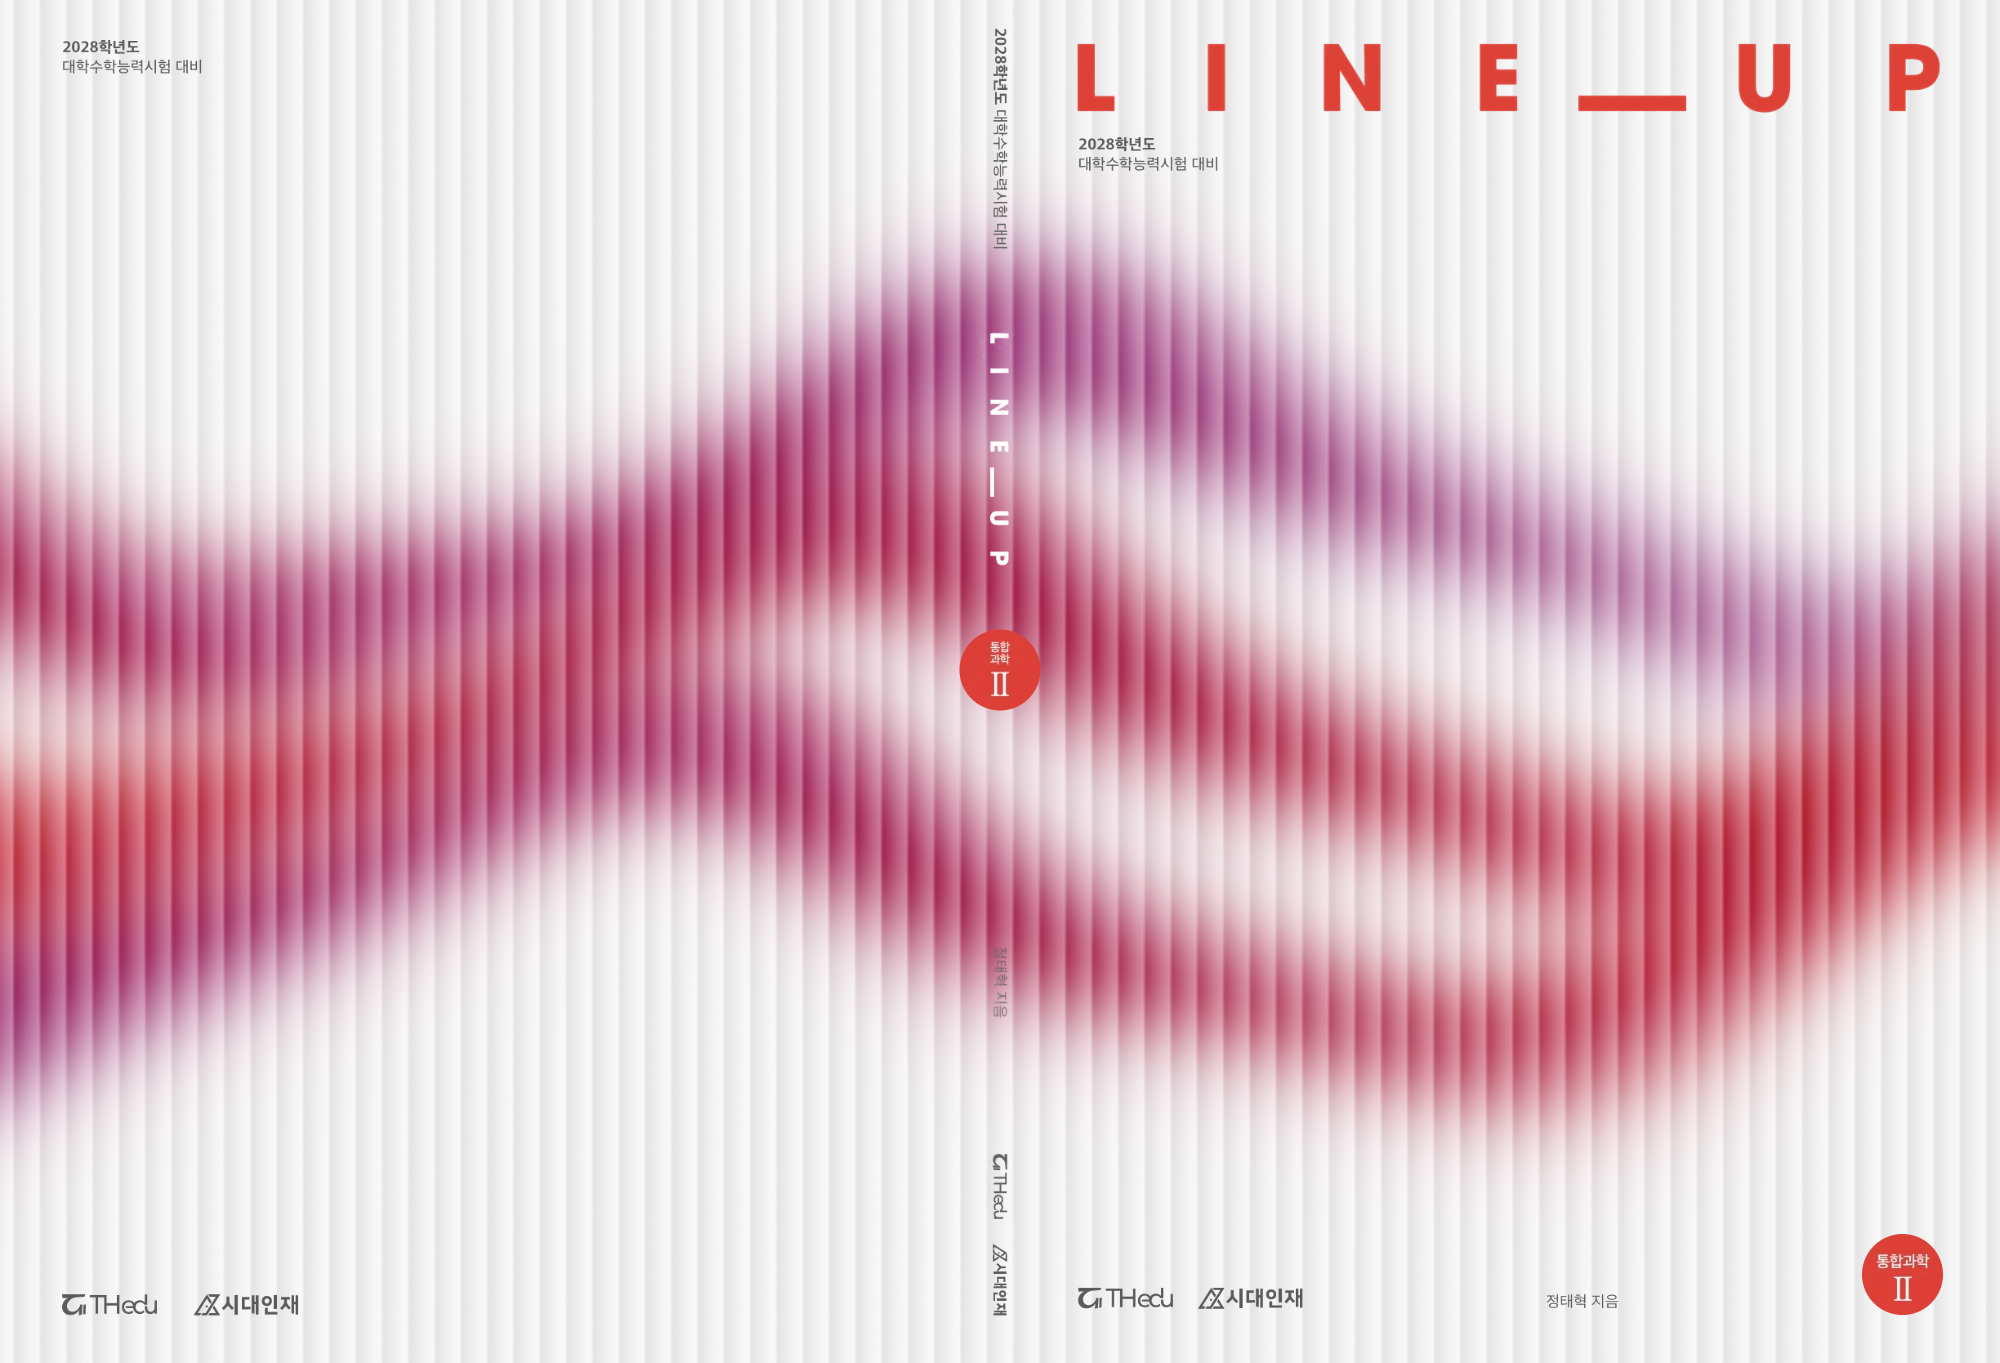
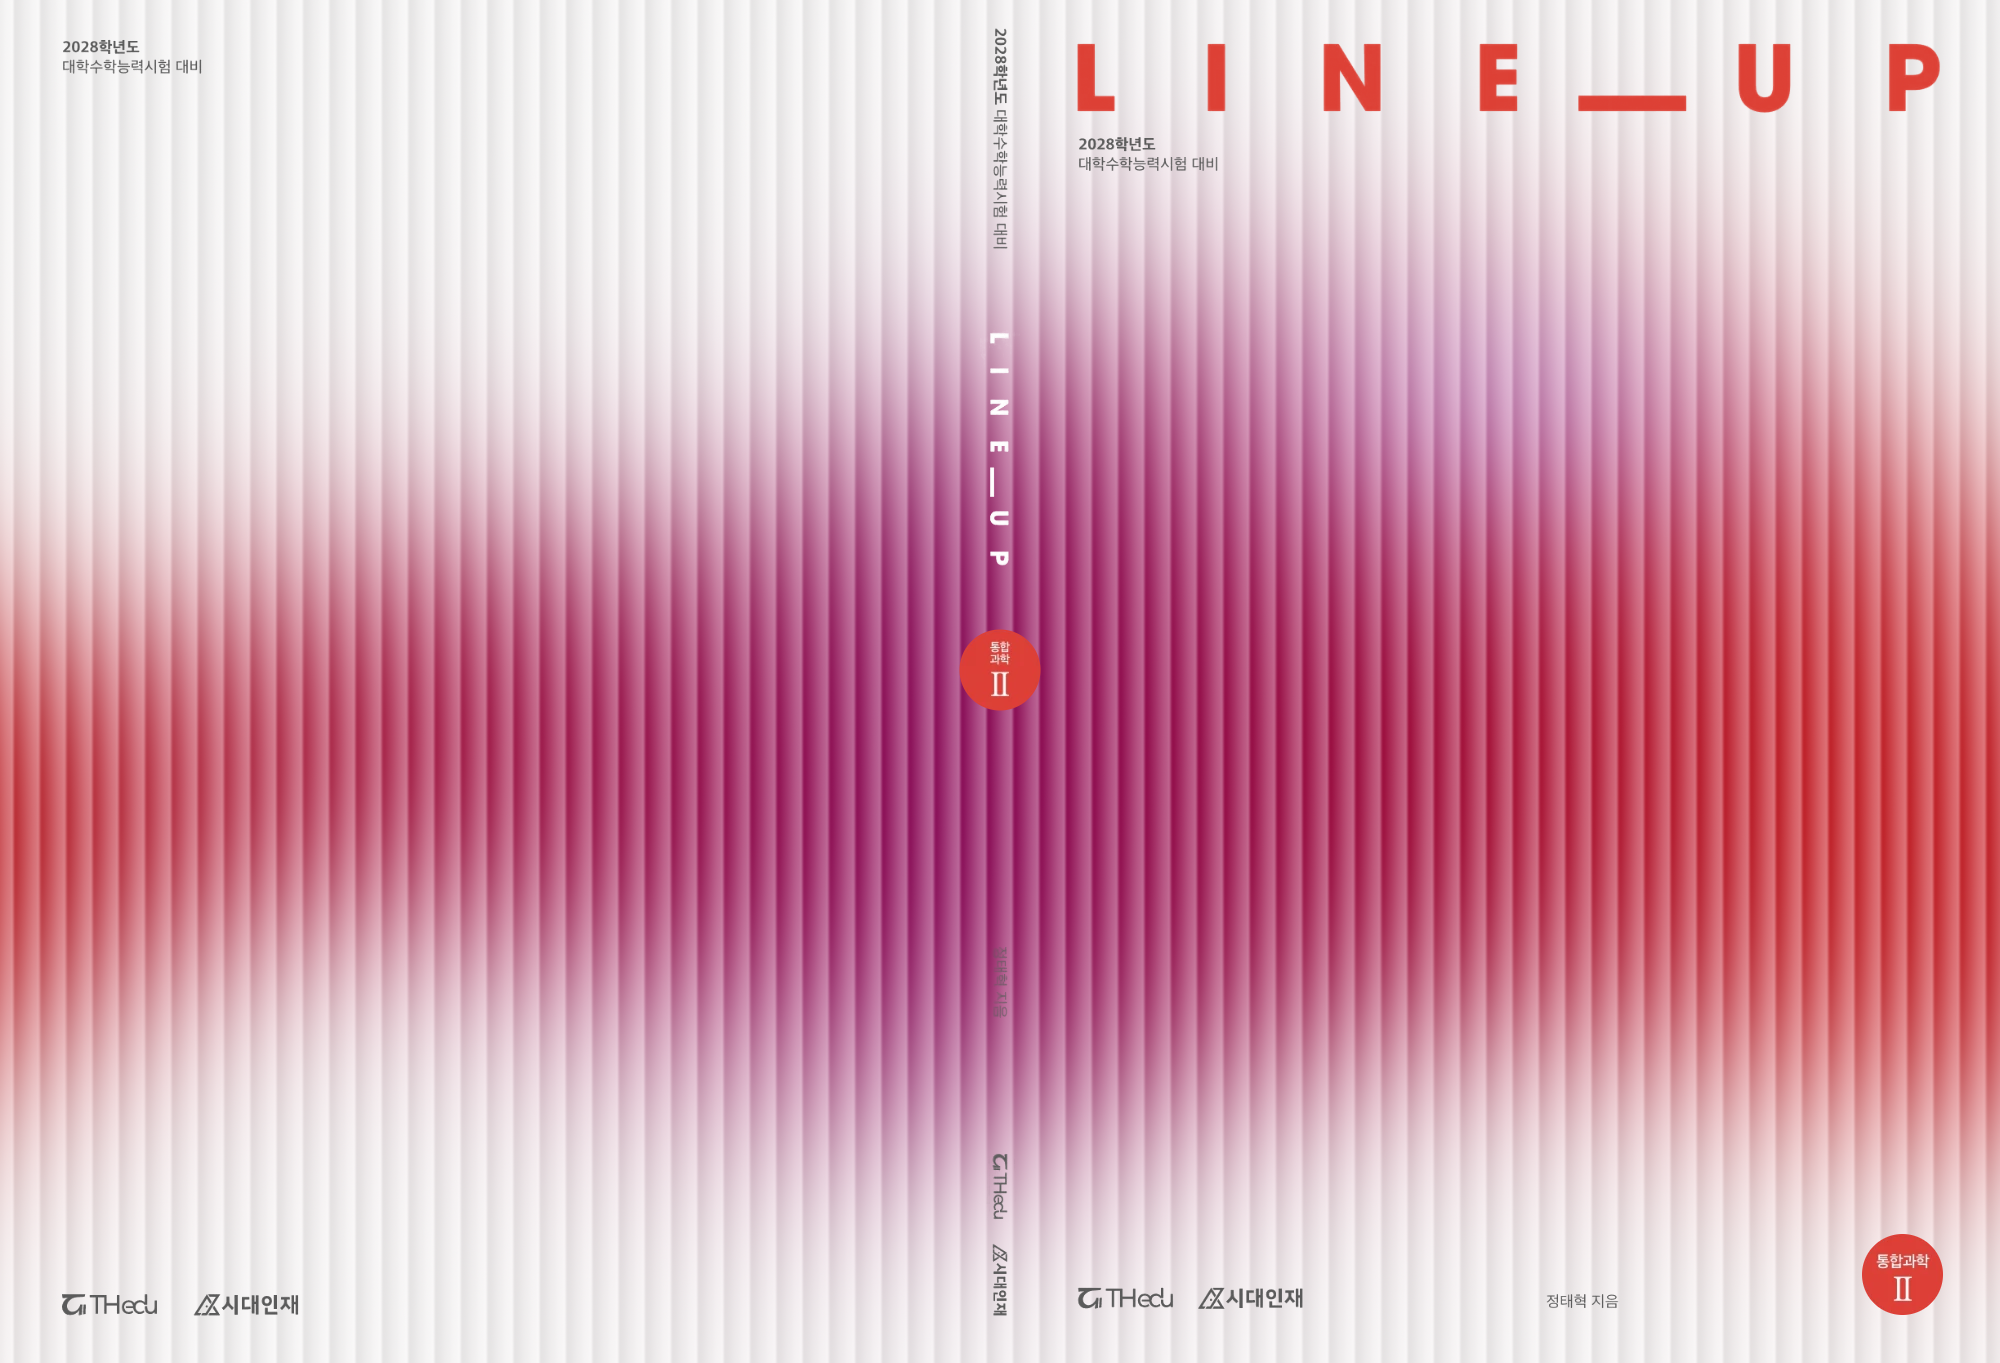
Keep the cover's broad colour field and reshape its outline instead
The first round turned the object into ribbons and strands, which lost
the wide painted surface the design depends on. The variants are now a
single soft-edged field between a top and bottom contour, with the
original's red-crimson-magenta sweep and lavender lobe; only the
contours differ: a field that bends twice (A), one that lies low on the
back and swells up on the front (B), and one pinched at the spine (C).

Claude-Session: https://claude.ai/code/session_01VvfvubLZRbmq2jpum6Br6y

diff --git a/lineup/build.py b/lineup/build.py
@@ -241,60 +241,71 @@ def wave(x, *terms):
     return sum(A * np.sin(2 * np.pi * x / L + p) for A, L, p in terms)
 
 
+class Mass:
+    """위 외곽선 top(x) 과 아래 외곽선 bot(x) 사이를 채운 넓은 면.
+
+    원본처럼 왼쪽 빨강 → 가운데 자주 → 오른쪽 빨강으로 가로 그라데이션을
+    깔고, lobes 로 준 자리에 라벤더(또는 다른 색) 기운을 얹는다.
+    """
+
+    def __init__(self, top, bot, soft, colors, lobes=()):
+        self.top, self.bot, self.soft = top, bot, soft
+        self.colors, self.lobes = colors, lobes
+
+    def render(self, X, Y):
+        x = X[0]
+        st = np.sqrt(1 + np.gradient(self.top) ** 2)[None, :]
+        sb = np.sqrt(1 + np.gradient(self.bot) ** 2)[None, :]
+        a = 1 / (1 + np.exp(-(Y - self.top[None, :]) / st / self.soft))
+        b = 1 / (1 + np.exp(-(self.bot[None, :] - Y) / sb / self.soft))
+        dens = a * b
+        col = np.broadcast_to(ramp(x, self.colors)[None], X.shape + (3,)).copy()
+        for cx, cy, rx, ry, c, k in self.lobes:
+            g = k * np.exp(-(((X - cx) / rx) ** 2 + ((Y - cy) / ry) ** 2))
+            col = col * (1 - g[..., None]) + np.asarray(c) * g[..., None]
+        return dens, col
+
+
+# 원본 면의 색 배치
+MASS_COLORS = [(0, RED * 0.97), (450, CRIMSON), (950, MAGENTA), (1400, CRIMSON),
+               (1800, RED), (2000, RED)]
+
+
 def variant_a(h, w):
-    """A. 두 번 크게 출렁이는 한 줄기 띠."""
+    """A. 면 전체가 크게 두 번 출렁인다 — 위아래 외곽선이 함께 물결친다."""
     x = np.arange(w, dtype=float)
-    # 마루(위로 솟은 곳)가 책등 바로 오른쪽에 와서 책등 제목 뒤를 덮는다.
-    yc = 690 + wave(x, (215, 1270, -0.48), (30, 560, 1.1))
-    tw = np.cos(2 * np.pi * x / 1270 - 0.48)
-    width = 125 + 80 * np.abs(tw) + 18 * np.sin(x / 240)
-    colors = [(0, RED), (450, CRIMSON), (950, MAGENTA), (1250, MAGENTA),
-              (1650, CRIMSON), (2000, RED)]
-    return [Ribbon(yc, width, 48, colors, sheen=0.6, sheen_shift=-0.8 * tw)]
+    yc = 700 + wave(x, (170, 1300, -0.6), (25, 520, 1.0))
+    half = 290 + wave(x, (40, 900, 0.4))
+    lobes = [(1350, 430, 340, 200, LAVENDER, 0.95), (300, 950, 260, 150, LAVENDER, 0.35)]
+    return [Mass(yc - half, yc + half, 65, MASS_COLORS, lobes)]
 
 
 def variant_b(h, w):
-    """B. 세 줄기가 엇갈려 흐르는 물결 — LINE 이 여러 줄로 선다."""
+    """B. 뒤표지에서 낮게 깔렸다가 앞표지에서 높이 솟는 너울."""
     x = np.arange(w, dtype=float)
-    out = []
-    specs = [
-        (500, (140, 1500, 0.3), 58, [(0, CRIMSON), (900, MAGENTA), (2000, LAVENDER * 0.92)], 0.35),
-        (700, (155, 1500, 1.15), 64, [(0, RED), (1000, CRIMSON), (2000, RED)], 0.15),
-        (900, (140, 1500, 2.0), 58, [(0, MAGENTA), (1000, CRIMSON), (2000, RED)], 0.25),
-    ]
-    for base, (A, L, p), ww, colors, sh in specs:
-        yc = base + wave(x, (A, L, p), (22, 610, p * 2))
-        width = ww + 14 * np.sin(2 * np.pi * x / 900 + p)
-        out.append(Ribbon(yc, width, 24, colors, sheen=sh,
-                          sheen_shift=-0.7 * np.cos(2 * np.pi * x / L + p)))
-    return out
+    top = 600 - 330 * np.exp(-((x - 1500) / 420) ** 2) - 150 * np.exp(-((x - 900) / 300) ** 2) \
+        + wave(x, (35, 700, 0.8))
+    bot = 1080 - 120 * np.exp(-((x - 300) / 350) ** 2) + wave(x, (45, 1100, 2.4))
+    lobes = [(1500, 380, 320, 190, LAVENDER, 0.95), (700, 1050, 300, 120, LAVENDER, 0.3)]
+    return [Mass(top, bot, 65, MASS_COLORS, lobes)]
 
 
 def variant_c(h, w):
-    """C. 두 줄기가 꼬이며 교차하는 띠."""
+    """C. 책등에서 잘록해지고 양쪽 표지에서 크게 부푸는 면."""
     x = np.arange(w, dtype=float)
-    # x = 350, 1650 에서 교차하고, 책등에서 가장 크게 벌어진다.
-    # 위 줄기는 책등에서 가장 넓어져 책등 제목 뒤를 덮고, 아래 줄기는 거기서
-    # 가장 가늘어져 뒤집히는 것처럼 보인다.
-    mid = 718 + wave(x, (35, 2200, 0.5))
-    swing = 255 * np.sin(2 * np.pi * (x - 350) / 2600)
-    pinch = 26 * np.cos((x - 1000) / 280)
-    r1 = Ribbon(mid - swing + wave(x, (25, 640, 0.0)),
-                86 + pinch, 34,
-                [(0, RED), (700, CRIMSON), (1300, MAGENTA), (2000, CRIMSON)],
-                sheen=0.45, sheen_shift=0.7 * np.sin(x / 280))
-    r2 = Ribbon(mid + swing + wave(x, (25, 640, 2.0)),
-                86 - pinch, 34,
-                [(0, MAGENTA), (800, CRIMSON), (1400, RED), (2000, RED)],
-                sheen=0.25, sheen_shift=-0.7 * np.cos(x / 280))
-    return [r1, r2]
+    pinch = np.exp(-((x - 1000) / 330) ** 2)
+    yc = 700 - 230 * pinch + wave(x, (60, 1600, 0.3))
+    half = 380 - 200 * pinch + wave(x, (35, 700, 1.7))
+    lobes = [(1000, 450, 280, 170, LAVENDER, 0.8), (1650, 900, 260, 180, LAVENDER, 0.35),
+             (250, 450, 250, 150, LAVENDER, 0.3)]
+    return [Mass(yc - half, yc + half, 60, MASS_COLORS, lobes)]
 
 
 VARIANTS = {"a": variant_a, "b": variant_b, "c": variant_c}
 TITLES = {
-    "a": "A  더블 웨이브",
-    "b": "B  세 줄 물결",
-    "c": "C  교차하는 두 줄기",
+    "a": "A  면 전체가 두 번 출렁임",
+    "b": "B  앞표지로 솟는 너울",
+    "c": "C  책등에서 잘록한 면",
 }
 
 
@@ -332,7 +343,7 @@ def main():
     os.makedirs(OUT, exist_ok=True)
     paths = []
     for key, make in VARIANTS.items():
-        field = paint(make(h, w), h, w, blur=22)
+        field = paint(make(h, w), h, w, blur=30)
         cover = composite(reeded(field, shade), img, layers)
         path = os.path.join(OUT, f"variant-{key}.png")
         to_image(cover, seed=ord(key)).save(path)

diff --git a/lineup/README.md b/lineup/README.md
@@ -3,11 +3,13 @@
 통합과학 II 표지에서 빨간 오브제(출렁이는 띠)만 바꾼 시안 세 개. 글자, 로고,
 배지, 세로 유리 줄무늬는 원본 그대로다.
 
+원본처럼 넓게 칠해진 면은 유지하고, 그 면의 외곽 모양만 바꿨다.
+
 | 시안 | 형태 |
 | --- | --- |
-| A 더블 웨이브 | 한 줄기 띠가 두 번 크게 출렁인다. 마루가 책등에 걸린다. |
-| B 세 줄 물결 | 가는 띠 세 줄이 엇갈려 흐른다. 앞표지 쪽에서 세 줄이 뚜렷이 갈린다. |
-| C 교차하는 두 줄기 | 두 줄기가 양쪽 표지에서 교차하고 책등에서 크게 벌어진다. |
+| A 면 전체가 두 번 출렁임 | 위아래 외곽선이 함께 물결쳐 면이 두 번 크게 휜다. |
+| B 앞표지로 솟는 너울 | 뒤표지에서 낮게 깔렸다가 앞표지에서 높이 솟는다. |
+| C 책등에서 잘록한 면 | 책등에서 좁아지고 양쪽 표지에서 크게 부푼다. |
 
 `renders/sheet.png` 에 원본과 세 시안을 한 장에 모았다.
 
@@ -19,13 +21,13 @@
 2. **글자 떼어 내기** — 줄무늬가 세로라서 한 열 안에서는 바탕이 위아래로
    천천히만 변한다. 글자 상자 안의 바탕을 열마다 다항식으로 추정하고, 원본과의
    차이에서 글자의 불투명도를 구한다. 배지는 원으로 잘라 옮긴다.
-3. **오브제** — 중심선과 반폭으로 정한 부드러운 띠를 겹쳐 그린다. 띠가 좁아지는
-   곳(뒤집히는 곳)에 라벤더 광택을 싣는다. 색은 원본에서 뽑은
-   빨강 → 크림슨 → 자주 → 라벤더.
+3. **오브제** — 위 외곽선과 아래 외곽선 사이를 부드럽게 채운 면. 가로로
+   빨강 → 크림슨 → 자주 → 크림슨 → 빨강을 깔고, 원본의 앞표지 위쪽처럼
+   라벤더 기운을 얹는다. 색은 모두 원본에서 뽑았다.
 4. 새 오브제에 1 의 줄무늬를 입히고 2 의 글자와 배지를 다시 얹는다.
 
 책등 제목(흰 글자)은 오브제 위에 있어야 읽힌다. 세 시안 모두 책등 제목 뒤를
-띠가 덮도록 위치를 잡았다.
+면이 덮도록 위치를 잡았다.
 
 ## 사용
 
@@ -37,5 +39,5 @@ python3 build.py
 (2000 × 1363). 해상도가 이 이미지에 묶여 있어서 인쇄용이 아니라 방향을 고르는
 용도다. 고른 안은 원본 작업 파일에서 같은 형태로 다시 그려야 한다.
 
-형태를 바꾸려면 `variant_a` / `variant_b` / `variant_c` 의 `wave(...)` 값을
-고친다. `(진폭, 파장, 위상)` 이다.
+형태를 바꾸려면 `variant_a` / `variant_b` / `variant_c` 의 외곽선(`top`, `bot` 또는
+`yc`, `half`)을 고친다. `wave(...)` 는 `(진폭, 파장, 위상)` 이다.
